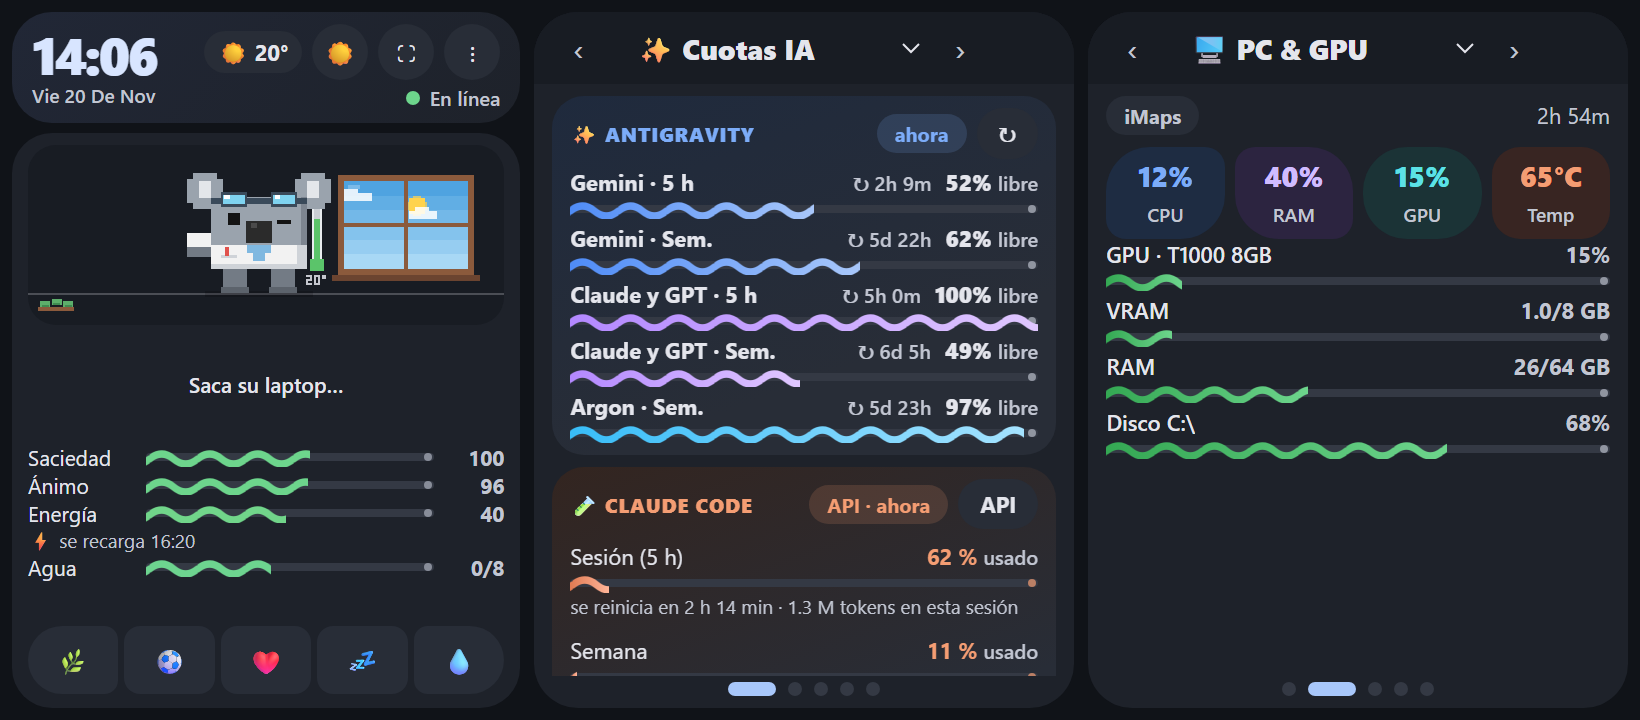
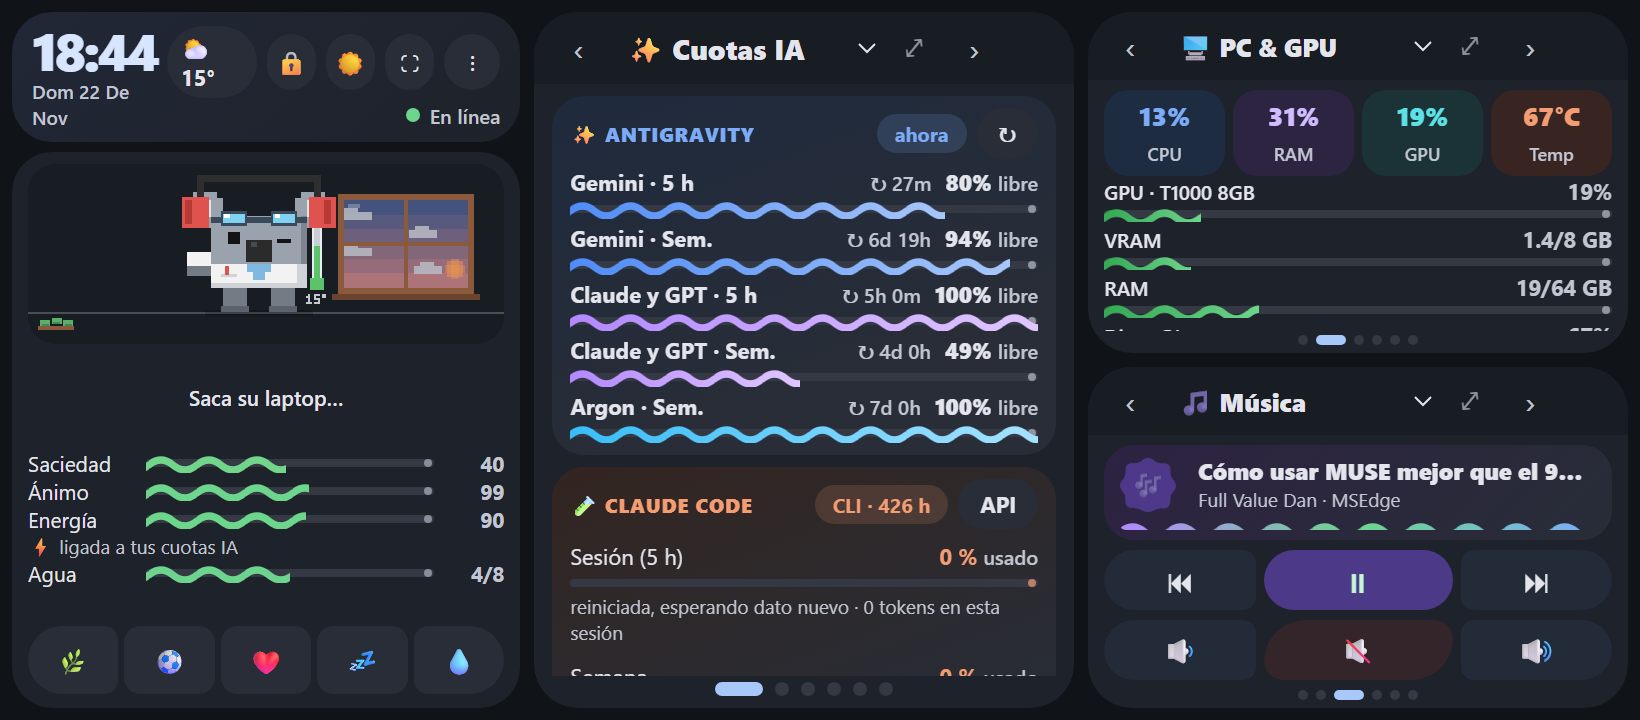
Add Windows Phone style Bento 2x2 Live-Tile grid with 1x1, 1x2, and 2x1 resizing

diff --git a/public/desk.js b/public/desk.js
@@ -12,7 +12,7 @@
     }).catch(() => {});
   }
 
-  // ---------- Carruseles deslizables ----------
+  // ---------- Carruseles Bento / Live Tiles (1x1, 1x2, 2x1 tipo Windows Phone) ----------
   const TARJETAS = [
     ['ia', '✨ Cuotas IA'],
     ['pc', '🖥 PC & GPU'],
@@ -22,20 +22,31 @@
     ['alarmas', '⏰ Alarmas'],
   ];
   const IDS = TARJETAS.map((x) => x[0]);
-  const INICIO = ['ia', 'pc'];
+  const TAMS = ['1x1', '1x2', '2x1'];
+  const INICIO = [
+    { id: 'ia', tam: '1x2' },
+    { id: 'pc', tam: '1x1' },
+    { id: 'musica', tam: '1x1' },
+  ];
   const MAX_CARRUSELES = 4;
-  const STORAGE_KEY = 'koalaDesk.carruseles.v2';
+  const STORAGE_KEY = 'koalaDesk.bento.v1';
 
-  let carruseles = INICIO.slice();
+  const clonarInicio = () => INICIO.map((t) => ({ id: t.id, tam: t.tam }));
+  const tamValido = (t) => TAMS.includes(t) ? t : '1x1';
+
+  let carruseles = clonarInicio();
   const paramPaneles = new URLSearchParams(window.location.search).get('paneles');
   if (paramPaneles) {
-    const lista = paramPaneles.split(',').map((s) => s.trim()).filter((x) => IDS.includes(x));
+    const lista = paramPaneles.split(',').map((s) => {
+      const [id, tam] = s.trim().split(':');
+      return IDS.includes(id) ? { id, tam: tamValido(tam || (id === 'ia' ? '1x2' : '1x1')) } : null;
+    }).filter(Boolean);
     if (lista.length) carruseles = lista.slice(0, MAX_CARRUSELES);
   } else {
     try {
       const saved = JSON.parse(localStorage.getItem(STORAGE_KEY) || 'null');
-      if (Array.isArray(saved) && saved.length > 0 && saved.every((x) => IDS.includes(x))) {
-        carruseles = saved.slice(0, MAX_CARRUSELES);
+      if (Array.isArray(saved) && saved.length > 0 && saved.every((x) => x && IDS.includes(x.id))) {
+        carruseles = saved.slice(0, MAX_CARRUSELES).map((x) => ({ id: x.id, tam: tamValido(x.tam) }));
       }
     } catch (e) { /* */ }
   }
@@ -56,9 +67,11 @@
     caja.innerHTML = '';
     caja.classList.toggle('uno', carruseles.length === 1);
 
-    carruseles.forEach((id, i) => {
+    carruseles.forEach((tile, i) => {
+      const id = tile.id;
+      const tam = tamValido(tile.tam);
       const c = document.createElement('div');
-      c.className = 'carrusel';
+      c.className = `carrusel t-${tam}`;
       c.setAttribute('data-i', i);
       const opciones = TARJETAS.map((x) =>
         `<option value="${x[0]}"${x[0] === id ? ' selected' : ''}>${esc(x[1])}</option>`
@@ -68,6 +81,7 @@
         `<button data-car="prev" title="Anterior">‹</button>` +
         `<select class="car-sel" data-car="sel">${opciones}</select>` +
         `<span class="car-pos">${IDS.indexOf(id) + 1}/${IDS.length}</span>` +
+        `<button data-car="tam" class="car-tam" title="Cambiar tamaño (${tam})">⤢</button>` +
         `<button data-car="next" title="Siguiente">›</button>` +
         `</div><div class="car-cuerpo"></div><div class="car-puntos">` +
         IDS.map((x) => `<i data-dot="${x}" class="${x === id ? 'sel' : ''}"></i>`).join('') +
@@ -85,20 +99,30 @@
   }
 
   function mostrarEn(i, id, dir) {
-    const otro = carruseles.indexOf(id);
+    const otro = carruseles.findIndex((t) => t.id === id);
     if (otro === i) return;
-    if (otro >= 0) carruseles[otro] = carruseles[i];
-    carruseles[i] = id;
+    if (otro >= 0) carruseles[otro].id = carruseles[i].id;
+    carruseles[i].id = id;
     guardarCarruseles();
     armarCarruseles({ i, dir: dir || 1 });
   }
 
   function moverCarrusel(i, dir) {
-    let k = IDS.indexOf(carruseles[i]);
+    const activos = carruseles.map((t) => t.id);
+    let k = IDS.indexOf(carruseles[i].id);
     for (let n = 0; n < IDS.length; n++) {
       k = (k + dir + IDS.length) % IDS.length;
-      if (!carruseles.includes(IDS[k])) return mostrarEn(i, IDS[k], dir);
+      if (!activos.includes(IDS[k])) return mostrarEn(i, IDS[k], dir);
     }
+  }
+
+  function ciclarTamano(i) {
+    const cur = tamValido(carruseles[i].tam);
+    const sig = TAMS[(TAMS.indexOf(cur) + 1) % TAMS.length];
+    carruseles[i].tam = sig;
+    guardarCarruseles();
+    armarCarruseles();
+    mostrarToast(`Tamaño del panel: ${sig}`);
   }
 
   document.addEventListener('click', (e) => {
@@ -106,7 +130,7 @@
     if (dot) {
       const i = Number(dot.closest('.carrusel').getAttribute('data-i'));
       const id = dot.getAttribute('data-dot');
-      mostrarEn(i, id, IDS.indexOf(id) >= IDS.indexOf(carruseles[i]) ? 1 : -1);
+      mostrarEn(i, id, IDS.indexOf(id) >= IDS.indexOf(carruseles[i].id) ? 1 : -1);
       return;
     }
     const carBtn = e.target.closest && e.target.closest('[data-car]');
@@ -115,6 +139,7 @@
       const que = carBtn.getAttribute('data-car');
       if (que === 'prev') moverCarrusel(i, -1);
       else if (que === 'next') moverCarrusel(i, 1);
+      else if (que === 'tam') ciclarTamano(i);
       else if (que === 'quitar' && carruseles.length > 1) {
         carruseles.splice(i, 1);
         guardarCarruseles();
@@ -139,7 +164,7 @@
     if (!e.target || e.target.getAttribute('data-car') !== 'sel') return;
     const i = Number(e.target.closest('.carrusel').getAttribute('data-i'));
     const val = e.target.value;
-    mostrarEn(i, val, IDS.indexOf(val) >= IDS.indexOf(carruseles[i]) ? 1 : -1);
+    mostrarEn(i, val, IDS.indexOf(val) >= IDS.indexOf(carruseles[i].id) ? 1 : -1);
   });
 
   let arrastre = null;
@@ -158,9 +183,10 @@
 
   function agregarPanel() {
     if (carruseles.length >= MAX_CARRUSELES) return;
-    const libre = IDS.find((x) => !carruseles.includes(x));
+    const activos = carruseles.map((t) => t.id);
+    const libre = IDS.find((x) => !activos.includes(x));
     if (!libre) return;
-    carruseles.push(libre);
+    carruseles.push({ id: libre, tam: '1x1' });
     guardarCarruseles();
     armarCarruseles();
   }
@@ -171,7 +197,7 @@
     armarCarruseles();
   }
   function restablecerPaneles() {
-    carruseles = INICIO.slice();
+    carruseles = clonarInicio();
     guardarCarruseles();
     armarCarruseles();
   }

diff --git a/public/style.css b/public/style.css
@@ -98,12 +98,26 @@ html, body {
   min-height: 0;
   display: grid;
   grid-template-columns: repeat(2, minmax(0, 1fr));
-  gap: 10px;
+  grid-template-rows: repeat(2, minmax(0, 1fr));
+  grid-auto-flow: dense;
+  gap: 8px;
 }
-.carruseles-grid.uno { grid-template-columns: 1fr; }
+.carruseles-grid.uno { grid-template-columns: 1fr; grid-template-rows: 1fr; }
+
+/* Tamaños tipo Windows Phone Live Tiles */
+.carrusel.t-1x1 { grid-column: span 1; grid-row: span 1; }
+.carrusel.t-1x2 { grid-column: span 1; grid-row: span 2; }
+.carrusel.t-2x1 { grid-column: span 2; grid-row: span 1; }
 
 @media (max-width: 700px) {
-  .carruseles-grid { grid-template-columns: 1fr; }
+  .carruseles-grid {
+    grid-template-columns: 1fr;
+    grid-template-rows: auto;
+  }
+  .carrusel.t-1x1, .carrusel.t-1x2, .carrusel.t-2x1 {
+    grid-column: span 1;
+    grid-row: span 1;
+  }
 }
 
 /* Contenedores M3 Expressive */
@@ -367,12 +381,17 @@ button:active {
 }
 .car-cab {
   display: grid;
-  grid-template-columns: 32px minmax(0, 1fr) auto 32px;
+  grid-template-columns: 28px minmax(0, 1fr) auto 26px 28px;
   align-items: center;
-  gap: 3px;
-  padding: 7px 10px;
+  gap: 2px;
+  padding: 6px 8px;
   background: var(--md-surface-low);
 }
+.car-tam {
+  font-size: 13px !important;
+  opacity: 0.7;
+}
+.car-tam:hover { opacity: 1; }
 .car-cab button {
   background: transparent;
   padding: 0;
@@ -1056,10 +1075,68 @@ code {
 
 /* En pantallas táctiles, el deslizamiento reemplaza las flechas ‹ › para dar más ancho al título */
 @media (pointer: coarse) {
-  .car-cab { grid-template-columns: minmax(0, 1fr) auto; }
+  .car-cab { grid-template-columns: minmax(0, 1fr) auto 28px; }
   .car-cab [data-car="prev"],
   .car-cab [data-car="next"] { display: none; }
 }
+
+/* ============================================================
+ * ADAPTACIÓN POR TAMAÑO DE LIVE TILE (1x1 media altura · 2x1 ancho)
+ * ============================================================ */
+.carrusel.t-1x1 .car-cab { padding: 3px 7px; }
+.carrusel.t-1x1 .car-sel { font-size: 12.5px; padding: 1px 4px; }
+.carrusel.t-1x1 .car-cuerpo { padding: 5px 8px 4px; }
+.carrusel.t-1x1 .car-puntos { padding: 2px 0 4px; gap: 4px; }
+.carrusel.t-1x1 .car-puntos i { width: 5px; height: 5px; }
+.carrusel.t-1x1 .car-puntos i.sel { width: 15px; }
+
+/* Música en 1x1 (media altura): portada compacta + botones táctiles limpios sin texto redundante */
+.carrusel.t-1x1 [data-tj="musica"] { gap: 5px; }
+.carrusel.t-1x1 .now-playing { padding: 5px 8px; gap: 4px; border-radius: 15px; }
+.carrusel.t-1x1 .np-shape-wrap { width: 28px; height: 28px; }
+.carrusel.t-1x1 .np-glyph { font-size: 13px; }
+.carrusel.t-1x1 .np-title { font-size: 11.5px; }
+.carrusel.t-1x1 .np-artist { font-size: 9.5px; margin-top: 0; }
+.carrusel.t-1x1 .np-wave { height: 5px; }
+.carrusel.t-1x1 .np-wave.playing { height: 8px; }
+.carrusel.t-1x1 .media-group { gap: 4px; }
+.carrusel.t-1x1 .media-btn { padding: 5px 4px; font-size: 15px; gap: 0; }
+.carrusel.t-1x1 .media-btn span { display: none; }
+
+/* PC & GPU en 1x1 (media altura): chips compactos + barras clave */
+.carrusel.t-1x1 [data-tj="pc"] { gap: 4px; }
+.carrusel.t-1x1 [data-tj="pc"] .tj-top { display: none; }
+.carrusel.t-1x1 .gpu-chips { gap: 4px; }
+.carrusel.t-1x1 .chip { padding: 4px 2px; border-radius: 12px; }
+.carrusel.t-1x1 .chip b { font-size: 13px; }
+.carrusel.t-1x1 .chip span { font-size: 9px; }
+.carrusel.t-1x1 .metrica-v { margin-bottom: 1px; gap: 0; }
+.carrusel.t-1x1 .metrica-top { font-size: 10px; }
+.carrusel.t-1x1 .wavy-track, .carrusel.t-1x1 .wavy-track > i { height: 8px; }
+
+/* Pomodoro en 1x1 */
+.carrusel.t-1x1 [data-tj="pomodoro"] { gap: 5px; }
+.carrusel.t-1x1 [data-tj="pomodoro"] .tj-top { display: none; }
+.carrusel.t-1x1 .pomo-botones button { padding: 6px 8px; font-size: 11px; }
+
+/* Música en 2x1 (doble ancho horizontal): Now Playing a la izquierda, controles a la derecha */
+.carrusel.t-2x1 [data-tj="musica"] {
+  display: grid;
+  grid-template-columns: 1.15fr 1fr;
+  grid-template-rows: 1fr 1fr;
+  gap: 6px 10px;
+  align-items: center;
+}
+.carrusel.t-2x1 .now-playing { grid-row: span 2; height: 100%; justify-content: center; }
+
+/* PC & GPU en 2x1 (doble ancho): chips a la izquierda, barras a la derecha */
+.carrusel.t-2x1 #pc-body {
+  display: grid;
+  grid-template-columns: 1fr 1.2fr;
+  gap: 4px 12px;
+  align-items: center;
+}
+.carrusel.t-2x1 .gpu-chips { grid-template-columns: repeat(2, 1fr); }
 
 /* ============================================================
  * CORTE PARA PANTALLAS BAJAS EN HORIZONTAL (Moto G06: 820×360 / 770×360)
